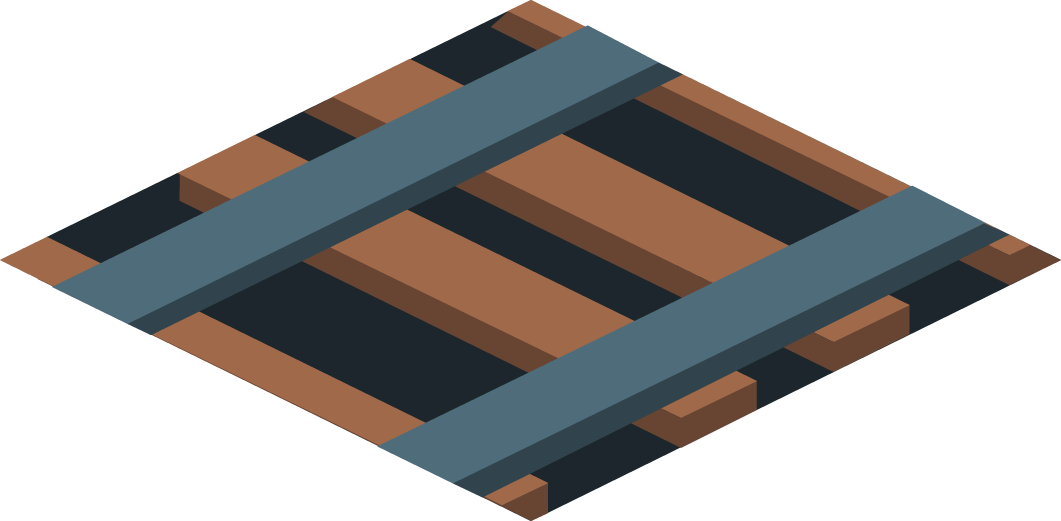
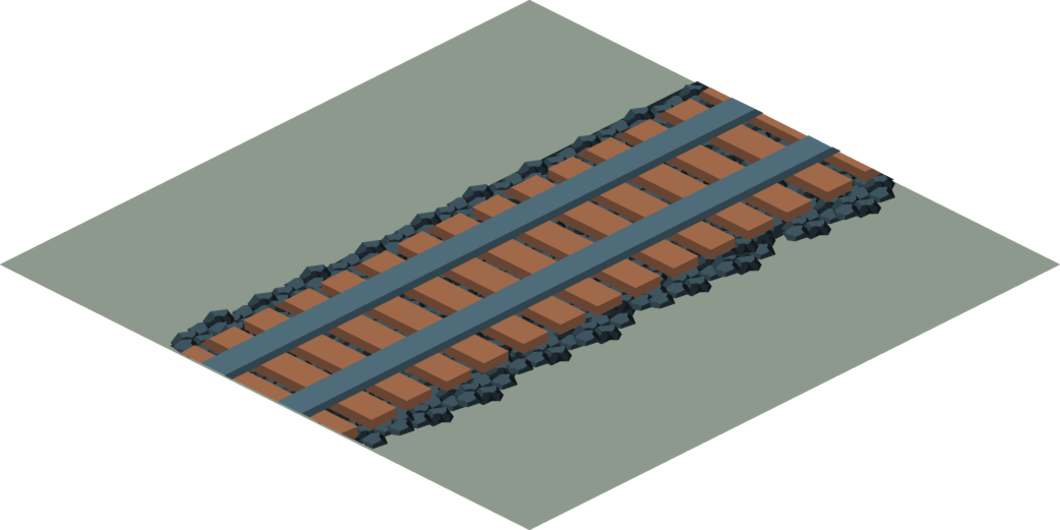
added PNGs for rails

diff --git a/src/view/View.java b/src/view/View.java
@@ -301,7 +301,7 @@ public class View {
 //                            } else {
 
                                 if (building != null) {
-                                    if (building.getBuildingName().equals("ground") || building.getBuildingName().equals("flat")
+                                    if (building.getBuildingName().equals("ground")
                                             || building.getBuildingName().equals("grass")) {
 
                                         String absoluteTileHeight = field.absoluteHeigtToRelativeHeight(cornerHeights);
@@ -648,7 +648,14 @@ public class View {
                         if(!(field.absoluteHeigtToRelativeHeight(field.getCornerHeights()).equals("0000"))){
                             Map<String, Integer> cornerHeights = fields[row][column].getCornerHeights();
                             String heights = fields[row][column].absoluteHeigtToRelativeHeight(cornerHeights);
-                            buildingName = field.getBuilding().getBuildingName() + heights;
+                            buildingName = field.getBuilding().getBuildingName();
+
+                            // Wenn es sich um eine Kurve handelt, sollen noch keine höhen mit in den Namen
+                            // übernommen werden, da momentan noch keine Grafiken/Aufschüttung
+                            if(!(buildingName.contains("ne-se") || buildingName.contains("nw-sw")
+                                || buildingName.contains("se-sw") || buildingName.contains("ne-nw"))){
+                                buildingName = buildingName + heights;
+                            }
                         } else {
                             buildingName = field.getBuilding().getBuildingName();
                         }

diff --git a/src/view/ObjectToImageMapping.java b/src/view/ObjectToImageMapping.java
@@ -42,12 +42,28 @@ public class ObjectToImageMapping {
 //        mapping.put("tree_no_ground", "ground/trees_no_ground");
 
 
-        // Verschiedenes
-        mapping.put("runway", "airport/runway");
+        // Flache Rails (unvollständig)
         mapping.put("rail-ne-sw", "rail/rail-ne-sw");
         mapping.put("rail-nw-se", "rail/rail-nw-se");
-        mapping.put("railstation-nw-se", "stations/rail/railstation");
+//        mapping.put("railcurve-ne-s", "rail/railcurve-ne-s");
+//        mapping.put("railcurve-ne-w", "rail/railcurve-ne-w");
+//        mapping.put("railcurve-nw-e", "rail/railcurve-nw-e");
+//        mapping.put("railcurve-nw-s", "rail/railcurve-nw-s");
+//        mapping.put("railcurve-se-n", "rail/railcurve-se-n");
+//        mapping.put("railcurve-se-w", "rail/railcurve-se-w");
+//        mapping.put("railcurve-sw-e", "rail/railcurve-sw-e");
+//        mapping.put("railcurve-sw-n", "rail/railcurve-sw-n");
+//        mapping.put("railswitch-ne-s", "rail/railswitch-ne-s");
+//        mapping.put("railswitch-nw-s", "rail/railswitch-nw-s");
+//        mapping.put("railswitch-se-n", "rail/railswitch-se-n");
+//        mapping.put("railswitch-sw-n", "rail/railswitch-sw-n");
+
+
+
+        // Verschiedenes
+        mapping.put("railstation-nw-se", "stations/rail/railstation_nw_se");
         mapping.put("busstop-nw-se", "stations/road/busstop");
+        mapping.put("runway", "airport/runway");
         mapping.put("height_up" , "height_up");
         mapping.put("height_down" , "height_down");
         mapping.put("remove", "remove");
